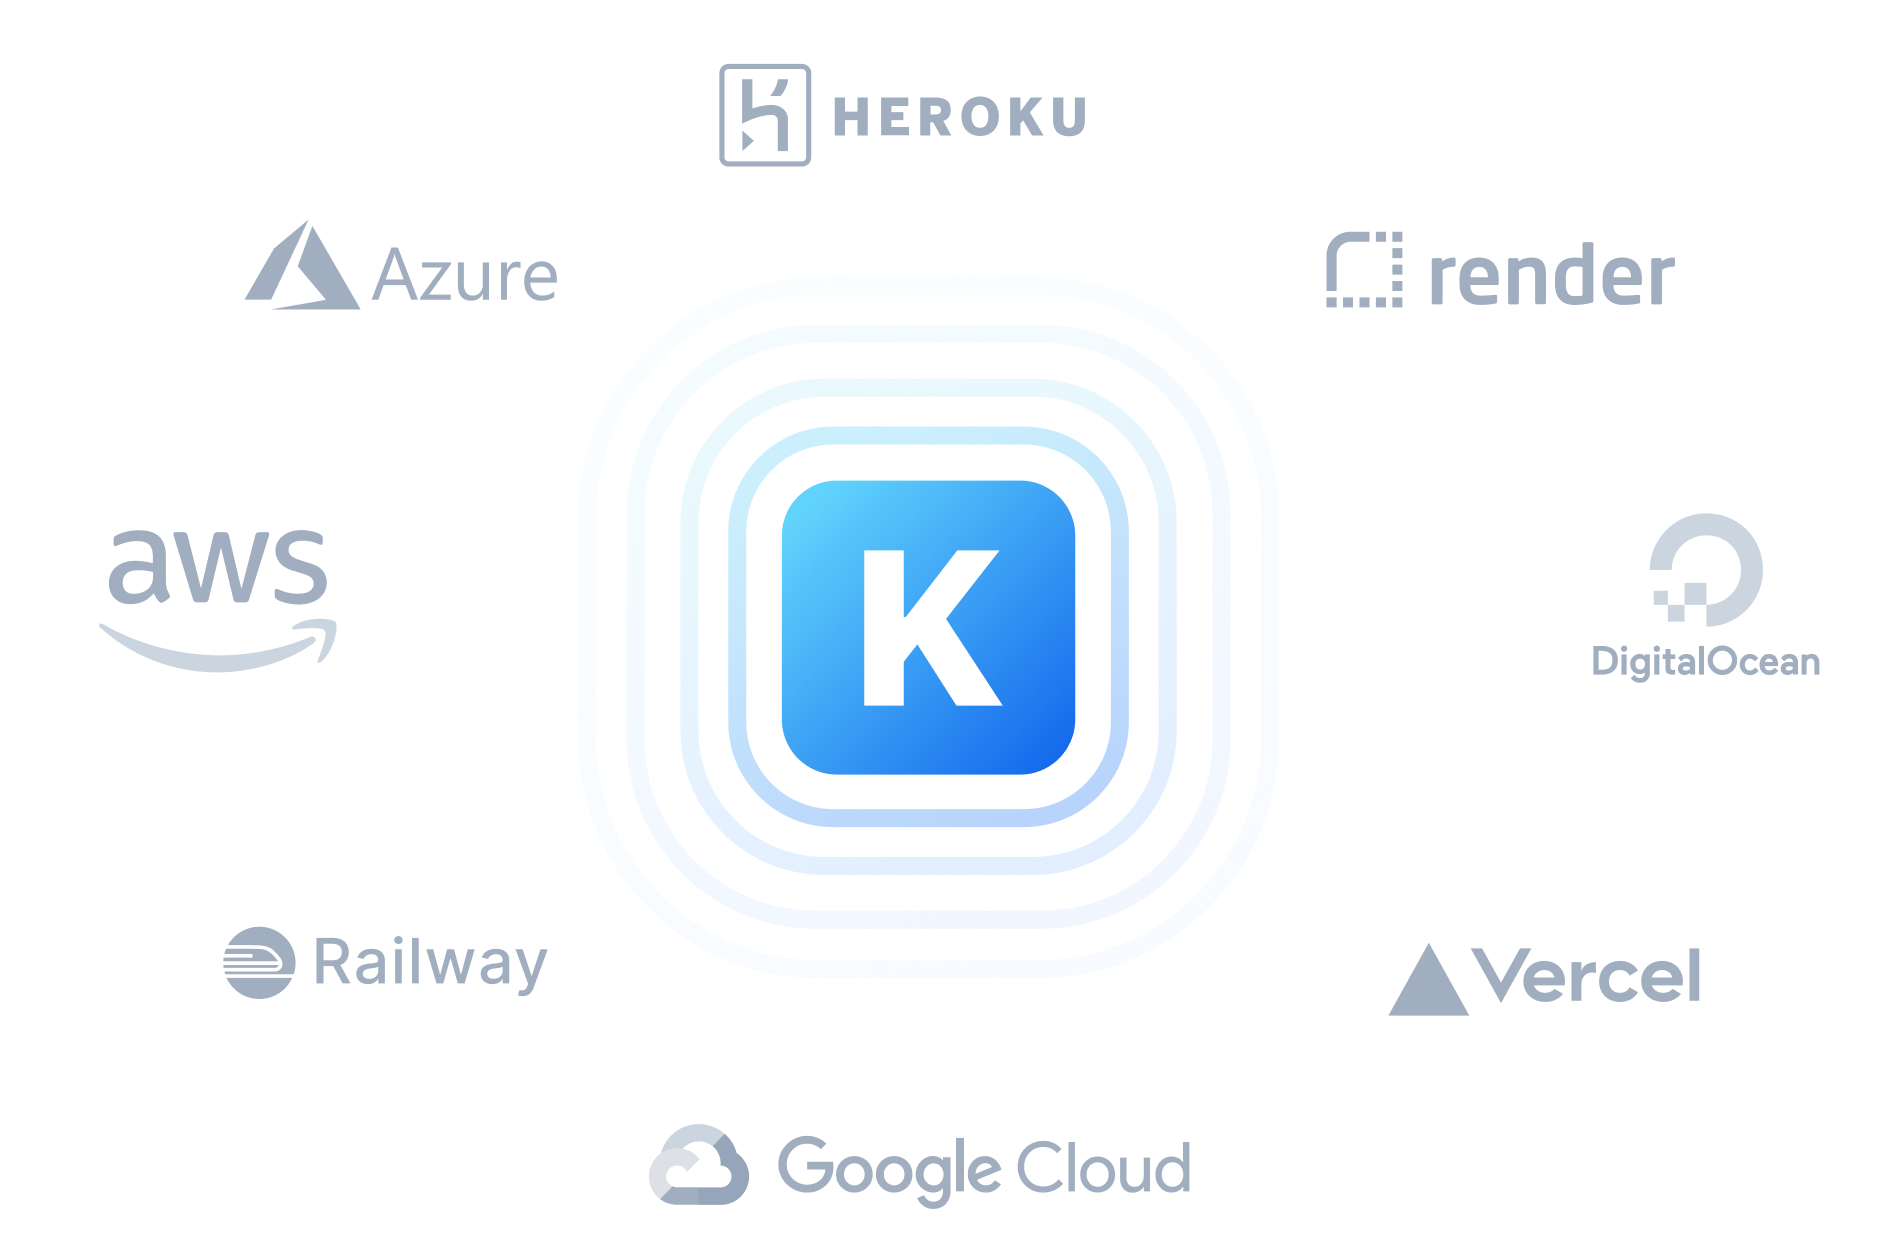
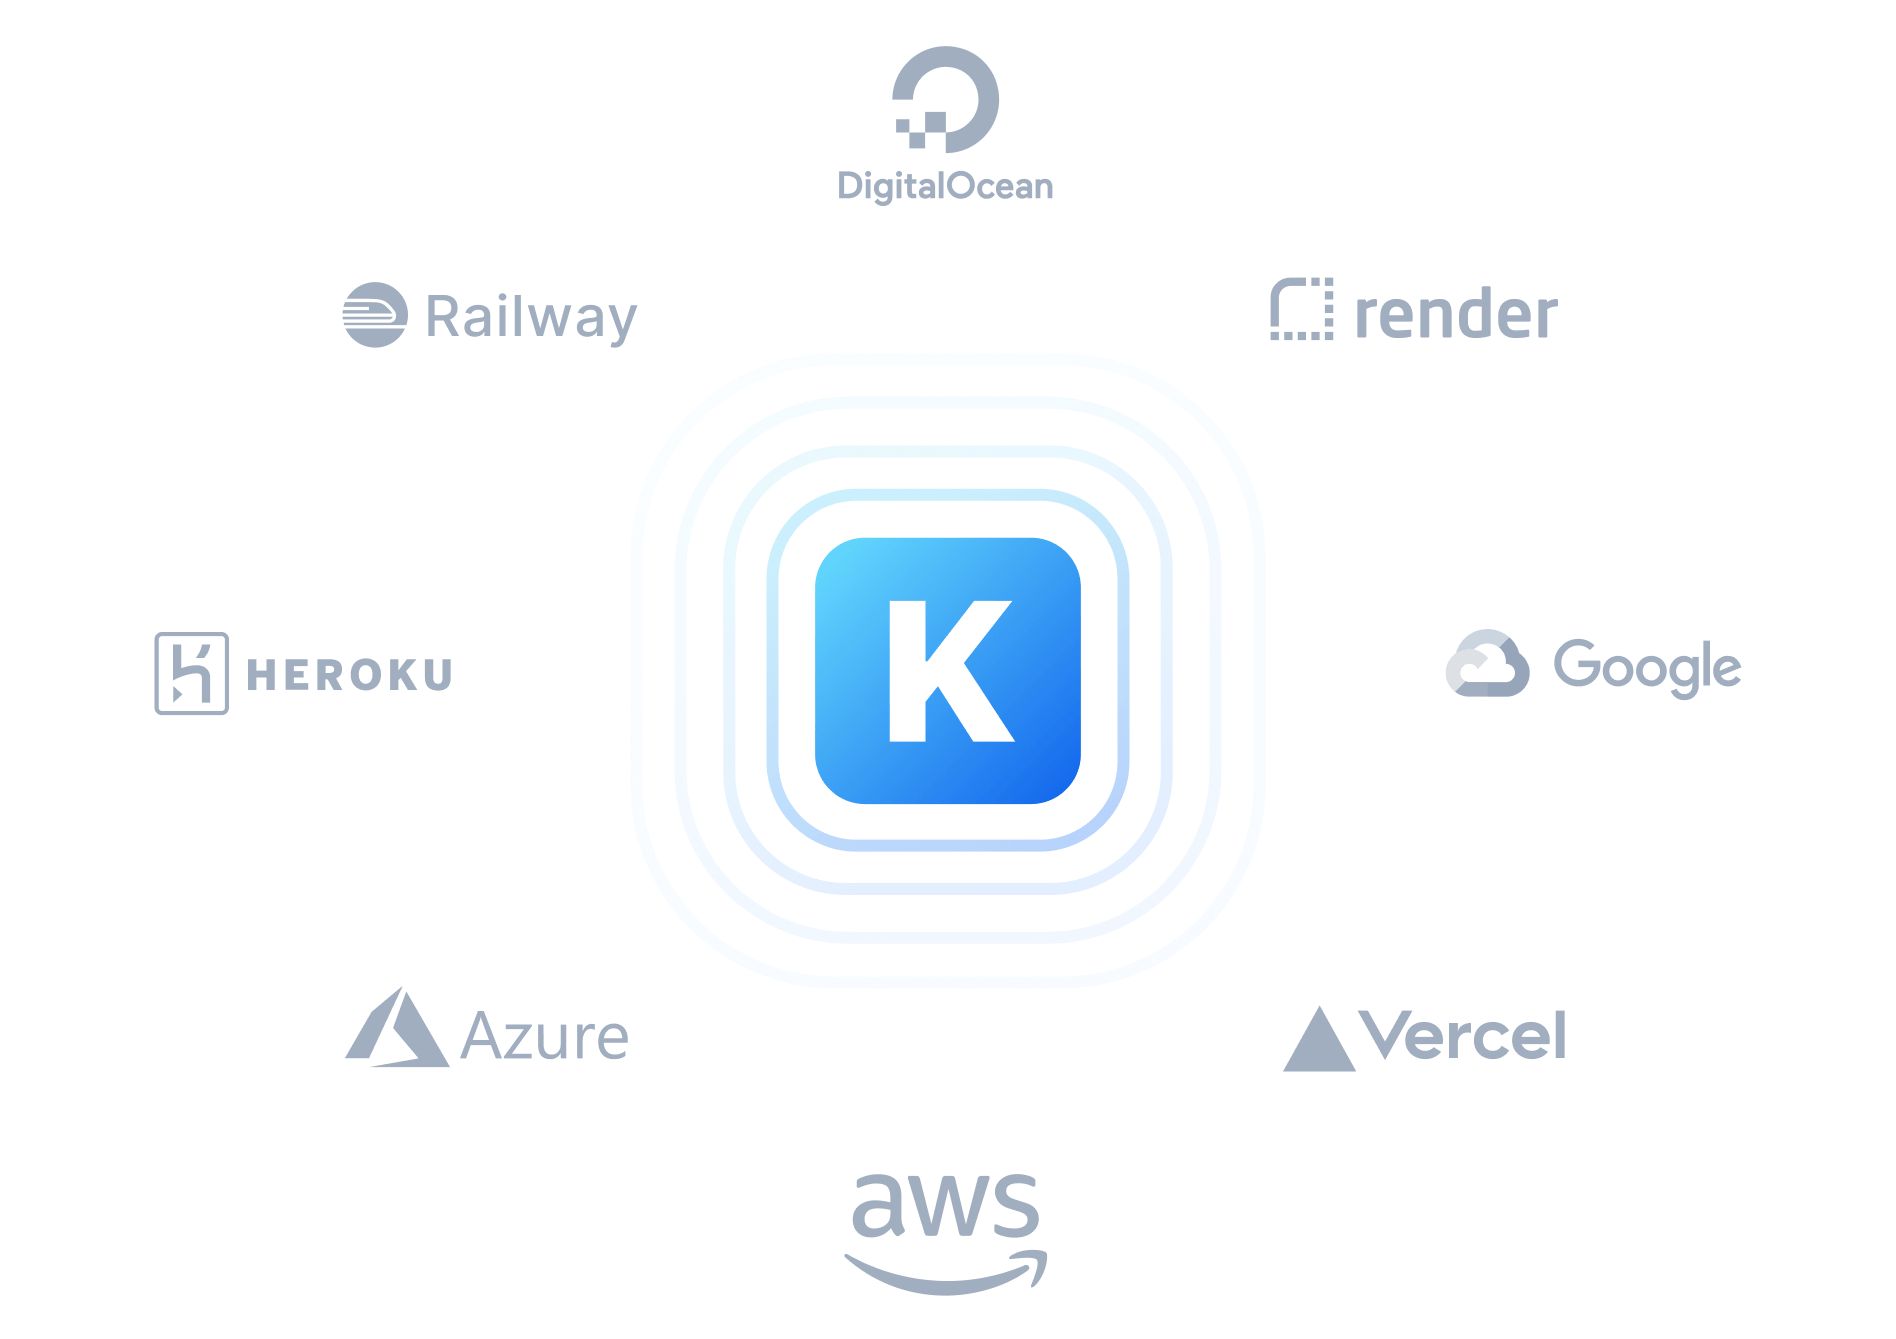
replaced deploy targets image in homepage

diff --git a/docs/pages/index.tsx b/docs/pages/index.tsx
@@ -604,8 +604,8 @@ export const lists = createSchema({
               <Image
                 src={deployTargets}
                 alt="Deploy targets for Keystone are any and all services you've heard of like Digital Ocean, Render, Heroku, Vercel, Google Cloud, AWS, Azure etc"
-                width={1897}
-                height={1249}
+                width={1896}
+                height={1339}
               />
             </div>
           </li>
